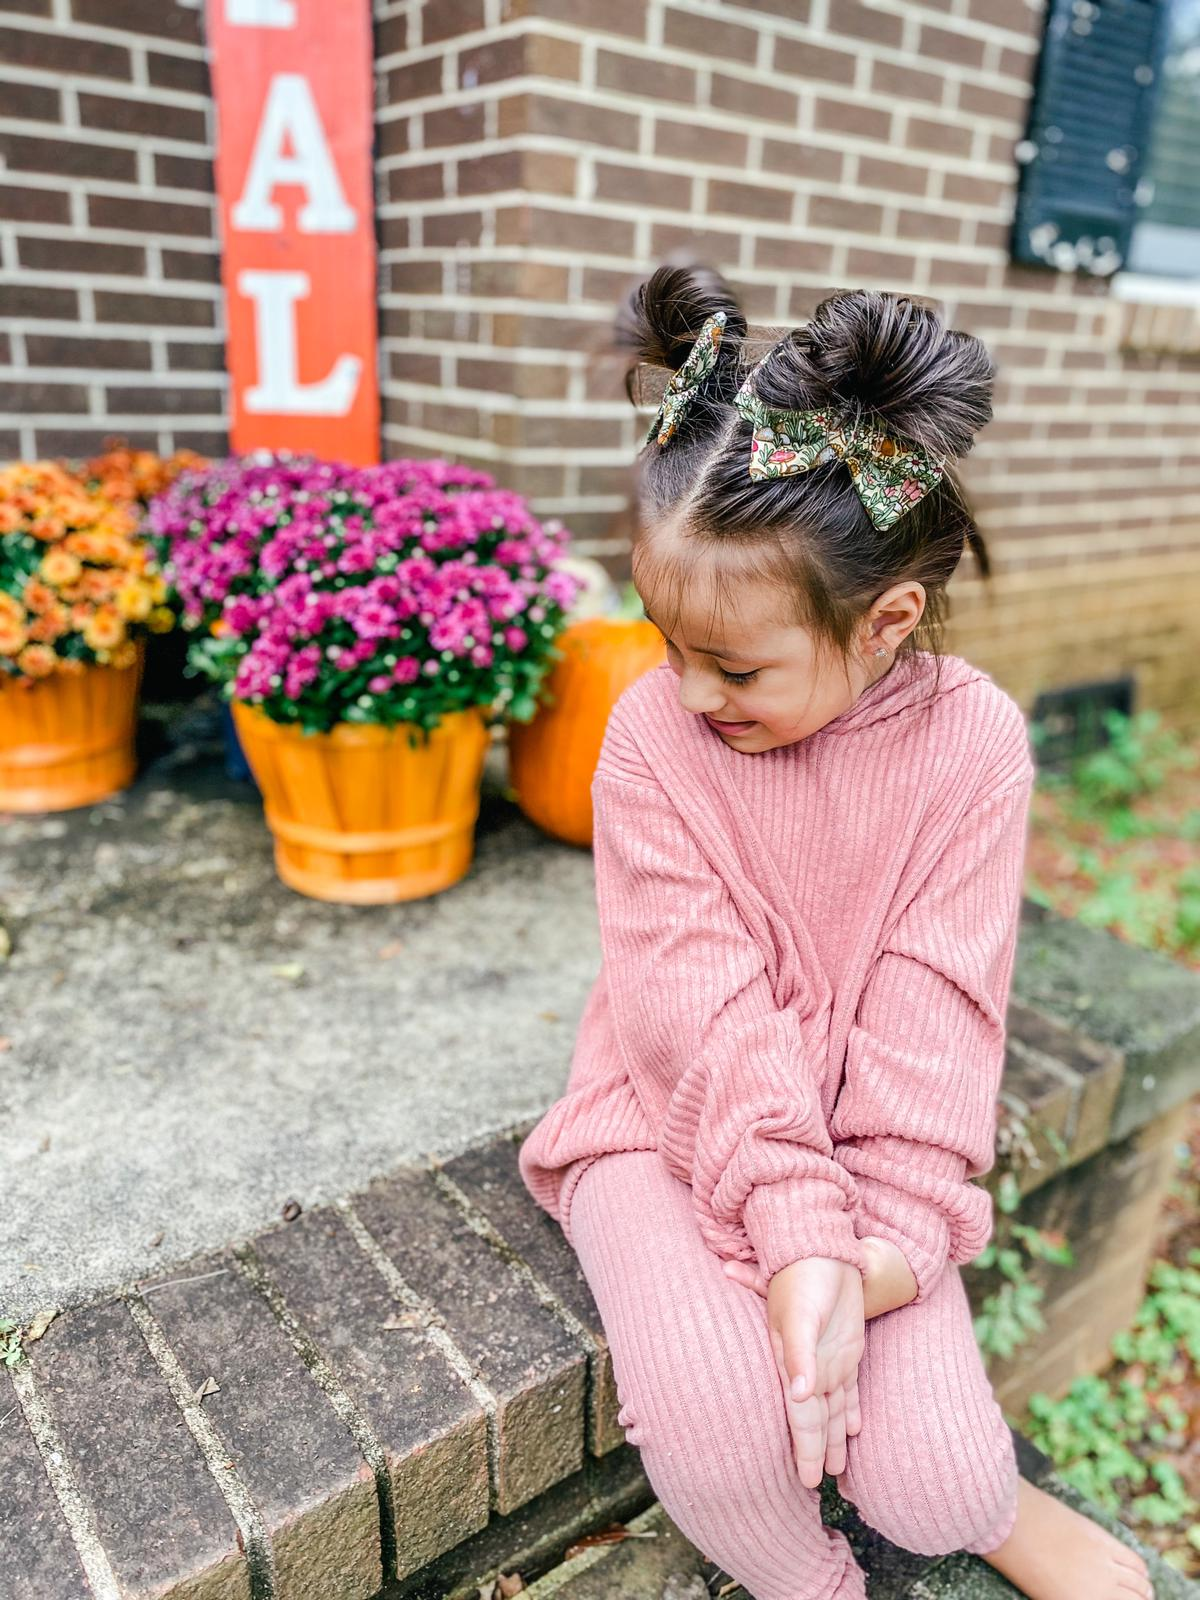
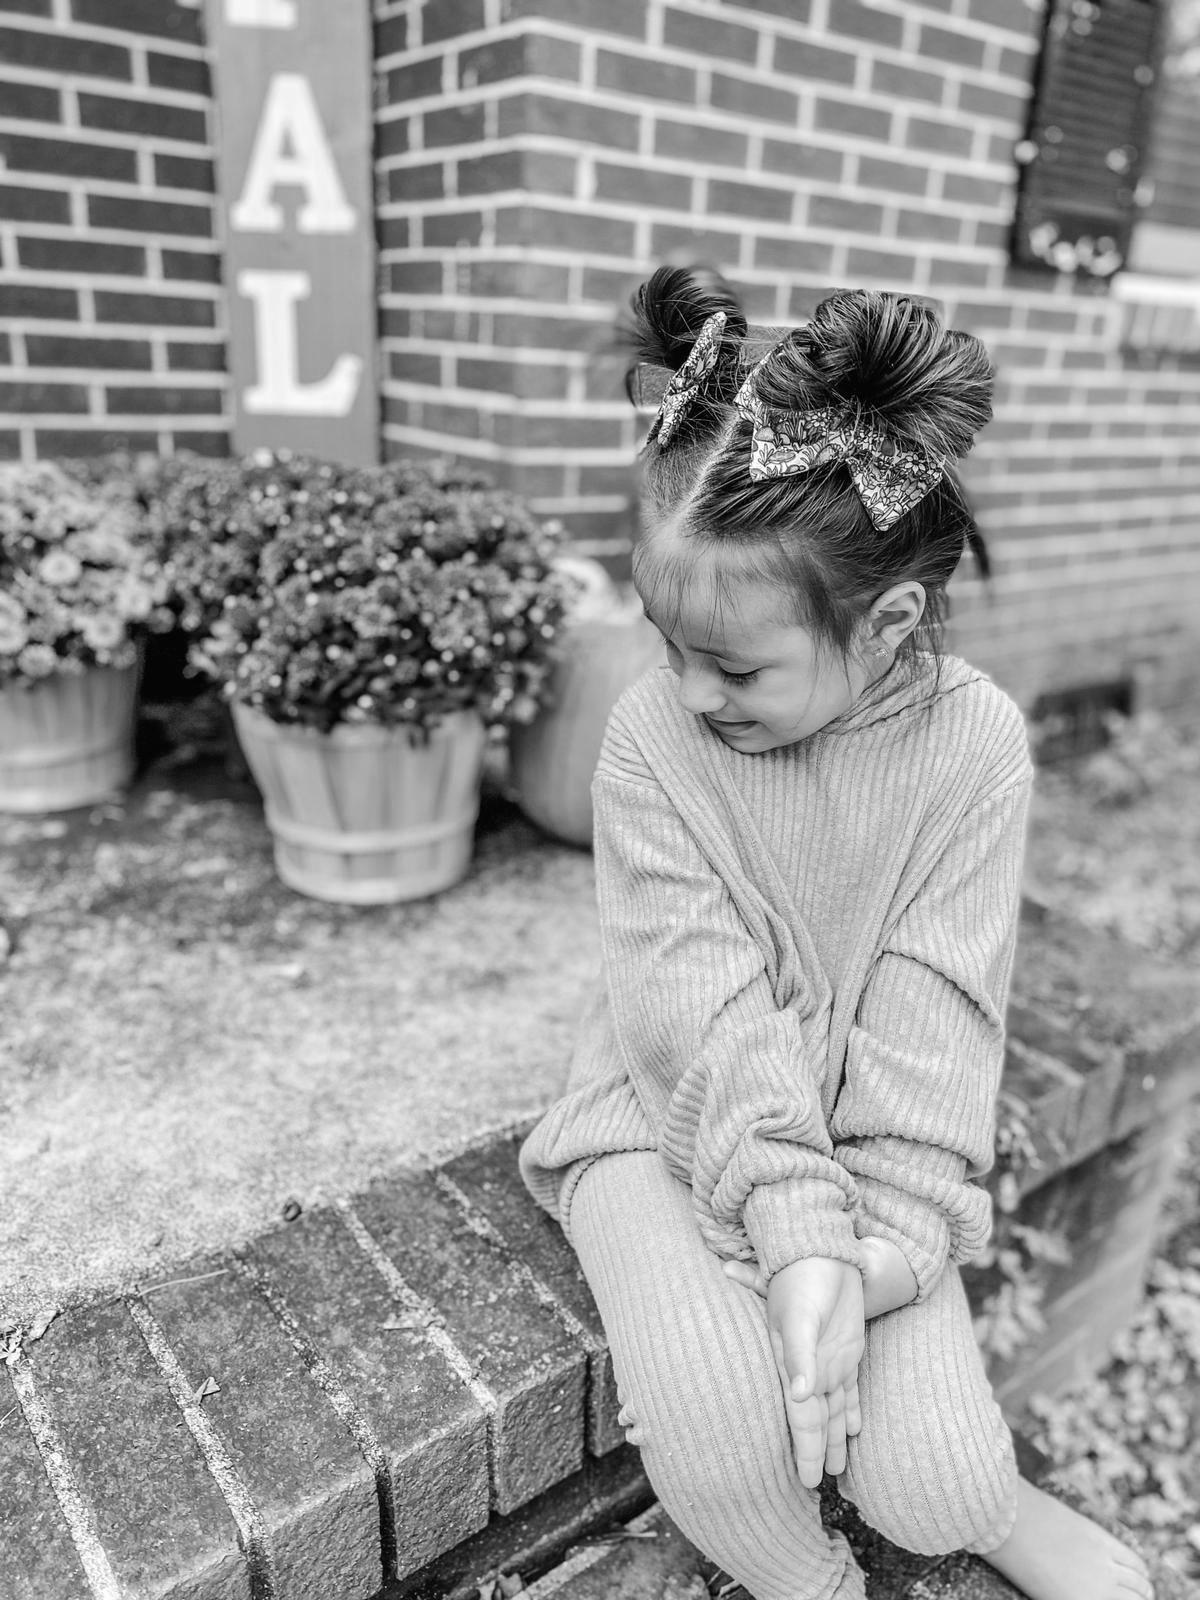
UseRef-Pics

diff --git a/elli_emi/src/ImgThumbnails.js b/elli_emi/src/ImgThumbnails.js
@@ -1,38 +1,31 @@
-import React  from 'react';
-import Floral from './img/Floral.jpeg';
-import Emi from './img/Emi.jpeg';
-import Floral2 from './img/Floral2.jpeg';
-import Floral3 from './img/Floral3.jpeg';
-import gold from './img/gold.jpeg';
-import october from './img/october.jpeg';
-import sister from './img/Sister.jpeg';
-import sunflower from './img/sunflower.jpeg';
-import rainbow from './img/Rainbow.jpeg';
-import september from './img/september.jpeg';
+import React from "react";
+import Floral from "./img/Floral.jpeg";
+import Emi from "./img/Emi.jpg";
+import Floral2 from "./img/Floral2.jpeg";
+import Floral3 from "./img/Floral3.jpeg";
+import gold from "./img/gold.jpeg";
+import october from "./img/october.jpeg";
+import Sisters from "./img/Sister copy.jpg";
+import sunflower from "./img/sunflower.jpeg";
+import rainbow from "./img/Rainbow.jpeg";
+import september from "./img/september.jpeg";
 // import Likes from './Likes';
 
-
-
-function Images()  {
-
-    
-        return (
-            <div>
-
-                <img  src={Floral} alt="" class="img-thumbnail  rounded float-left">
-                </img>
-                
-                <img src={Emi} alt="" class="img-thumbnail"></img>
-                <img src={Floral2} alt="" class="img-thumbnail"></img>
-                <img src={Floral3} alt="" class="img-thumbnail"></img>
-                <img src={gold} alt="" class="img-thumbnail"></img>
-                <img src={october} alt="" class="img-thumbnail"></img>
-                <img src={sister} alt="" class="img-thumbnail"></img>
-                <img src={sunflower} alt="" class="img-thumbnail"></img>
-                <img src={rainbow} alt="" class="img-thumbnail"></img>
-                <img src={september} alt="" class="img-thumbnail"></img>
-            </div>
-        );
+function Images() {
+  return (
+    <div className="Fall-collection">
+      <img src={Floral} alt="" class="img-thumbnail  rounded float-left"></img>
+      <img src={Emi} alt="" class="img-thumbnail"></img>
+      <img src={Floral2} alt="" class="img-thumbnail"></img>
+      <img src={Floral3} alt="" class="img-thumbnail"></img>
+      <img src={gold} alt="" class="img-thumbnail"></img>
+      <img src={october} alt="" class="img-thumbnail"></img>
+      <img src={Sisters} alt="" class="img-thumbnail"></img>
+      <img src={sunflower} alt="" class="img-thumbnail"></img>
+      <img src={rainbow} alt="" class="img-thumbnail"></img>
+      <img src={september} alt="" class="img-thumbnail"></img>
+    </div>
+  );
 }
 
 export default Images;

diff --git a/elli_emi/src/Nav.js b/elli_emi/src/Nav.js
@@ -3,25 +3,31 @@ import { Link } from "react-router-dom";
 import InputElement from "./input";
 // import { Navbar, NavDropdown, Form, FormControl, Button } from "react-bootstrap";
 
-
-
 class Nav extends Component {
   render() {
     const { isAuthenticated, login, logout } = this.props.auth;
     return (
       <nav className="navbar navbar-expand-lg navbar-light bg-light">
         <ul className="navbar-nav mr-auto  nav-ul">
-          <li className="nav-item" >
-            <Link className="navbar-brand" to="/">Ellie and Emi</Link>
+          <li className="nav-item">
+            <Link className="navbar-brand" to="/">
+              Ellie and Emi
+            </Link>
           </li>
           <li className="nav-item">
-            <Link className="nav-link" to="/bows">Bows </Link>
+            <Link className="nav-link" to="/bows">
+              Bows{" "}
+            </Link>
           </li>
           <li className="nav-item">
-            <Link className="nav-link" to="/public">Public</Link>
+            <Link className="nav-link" to="/public">
+              Public
+            </Link>
           </li>
           <li className="nav-item">
-            <Link className="nav-link" to="/profile">Profile</Link>
+            <Link className="nav-link" to="/profile">
+              Profile
+            </Link>
           </li>
 
           {isAuthenticated() && (
@@ -35,9 +41,8 @@ class Nav extends Component {
             </button>
             <InputElement />
           </li>
-          <pre>{(new Date).toLocaleTimeString()}</pre>
+          <pre>{new Date().toLocaleTimeString()}</pre>
         </ul>
-       
       </nav>
     );
   }

diff --git a/elli_emi/src/Home.js b/elli_emi/src/Home.js
@@ -1,33 +1,31 @@
-import React, { Component } from 'react';
-import { Link } from 'react-router-dom';
-import Jumbotron from './Jumbotron';
-import Images from './ImgThumbnails';
-import Likes from './Likes';
+import React, { Component } from "react";
+import { Link } from "react-router-dom";
+import Jumbotron from "./Jumbotron";
+import Images from "./ImgThumbnails";
+import Likes from "./Likes";
+import InputElement from "./input";
 
 class Home extends Component {
-    render() {
-        const { isAuthenticated, login } = this.props.auth;
-        return (
-            <div>
-                <h1 id= "home">Home</h1>
-                {isAuthenticated() ? (
-                    <Link to="/profile">View profile</Link>
-                ) : (
-                        <button onClick={login}>Log In</button>
-                    )}
-            
-                <br></br>
-                
-                <Jumbotron/>
-                <Likes/>
-                <Images/>
-               
-               
+  render() {
+    const { isAuthenticated, login } = this.props.auth;
+    return (
+      <div>
+        <h1 id="home">Home</h1>
+        {isAuthenticated() ? (
+          <Link to="/profile">View profile</Link>
+        ) : (
+          <button onClick={login}>Log In</button>
+        )}
 
+        <br></br>
 
-            </div>
-        );
-    }
+        <Jumbotron />
+        <Likes />
+        <InputElement />
+        <Images />
+      </div>
+    );
+  }
 }
 
 export default Home;

diff --git a/elli_emi/src/Likes.js b/elli_emi/src/Likes.js
@@ -1,36 +1,28 @@
-import React, { useState } from 'react';
+import React, { useState } from "react";
 
-function Display(props){
-    return (
-    <span> {props.likes}</span>
-    )
+function Display(props) {
+  return <span> {props.likes}</span>;
 }
 
-function Button (props){
-    return(
-        <button onClick={props.onClickFunction}>
-            ❤ 
-        </button>
-    )
+function Button(props) {
+  return (
+    <button onClick={props.onClickFunction}>
+      <span role="img"> ❤ </span>
+    </button>
+  );
 }
 
 function Likes() {
-    // counter the initial value of 0, setCounter is the new Change for counter
-    const [counter,setCounter] = useState(0);
-    const incrementCounter = ()=> setCounter(counter +1)
-    return (
-        <>
-        <span>
-        
-        <Button onClickFunction={incrementCounter}/>
-        </span>
-        <Display likes={counter}/>
-            
-        </>
-    )
+  // counter the initial value of 0, setCounter is the new Change for counter
+  const [counter, setCounter] = useState(0);
+  const incrementCounter = () => setCounter(counter + 1);
+  return (
+    <>
+      <span>
+        <Button onClickFunction={incrementCounter} />
+      </span>
+      <Display likes={counter} />
+    </>
+  );
 }
 export default Likes;
-
-
-
-    

diff --git a/elli_emi/src/pages/ImageChangeOnMouseOver.js b/elli_emi/src/pages/ImageChangeOnMouseOver.js
@@ -1,0 +1,31 @@
+import React from "react";
+import ImageToggleOnMouseOver from "../ImageTogglerOnMouseOver";
+import Emi from "../img/Emi.jpg";
+import EmiBlack from "../img/Emi.jpeg";
+import Sisters from "../img/Sister copy.jpg";
+import SisterBlack from "../img/Sister.jpeg";
+import PumkinBlack from "../img/pumpkin.jpeg";
+import Pumkin from "../img/pumpkin copy.jpg";
+
+import "../index.css";
+
+const ImageOnMouseOver = () => {
+  return (
+    <div id="bnwpics">
+      <ImageToggleOnMouseOver
+        primaryImg={Emi}
+        secondaryImg={EmiBlack}
+      ></ImageToggleOnMouseOver>
+      <ImageToggleOnMouseOver
+        primaryImg={Sisters}
+        secondaryImg={SisterBlack}
+      ></ImageToggleOnMouseOver>
+      <ImageToggleOnMouseOver
+        primaryImg={Pumkin}
+        secondaryImg={PumkinBlack}
+      ></ImageToggleOnMouseOver>
+    </div>
+  );
+};
+
+export default ImageOnMouseOver;

diff --git a/elli_emi/src/index.css b/elli_emi/src/index.css
@@ -94,11 +94,10 @@ nav button {
   border-color: #9d8189;
 }
 .footer {
-  min-height: 80px;
+  min-height: 60px;
   background: #f4acb7;
-  position: sticky;
+  position: relative;
   width: 100%;
-  margin-top: 10px;
   bottom: 0;
   left: 0;
   right: 0;
@@ -106,11 +105,27 @@ nav button {
 
 .footer span {
   position: relative;
+
   bottom: 0;
   left: 0;
   right: 0;
   padding: 3px;
   background: #f4acb7;
+}
+#bnwpics img {
+  width: 300px;
+  height: 450px;
+  margin: 10px;
+  border: 1px solid;
+  padding: 10px;
+  box-shadow: 5px 10px 20px #888888;
+}
+#bnwpics {
+  text-align: center;
+}
+.Fall-collection {
+  position: relative;
+  margin-bottom: 10px;
 }
 /* D8E2DC  light green*/
 /* ffe5d9 beige */

diff --git a/elli_emi/src/App.js b/elli_emi/src/App.js
@@ -8,8 +8,8 @@ import Callback from "./Callback";
 import Public from "./Public";
 import Private from "./Private";
 import Footer from "./Footer";
-import Bows from "./Bows";
 import PageNotFound from "./PageNotFound";
+import ImageOnMouseOver from "./pages/ImageChangeOnMouseOver";
 
 class App extends Component {
   constructor(props) {
@@ -42,7 +42,7 @@ class App extends Component {
               }
             />
             <Route path="/public" component={Public} />
-            <Route path="/bows" component={Bows} />
+            <Route path="/bows" component={ImageOnMouseOver} />
             <Route
               path="/private"
               render={(props) =>

diff --git a/elli_emi/src/input.js b/elli_emi/src/input.js
@@ -1,17 +1,19 @@
 import React, { useState } from "react";
 
+const InputElement = () => {
+  const [inputText, setInputText] = useState("");
 
-const InputElement =()=> {
-const [inputText,setInputText] = useState("");
-   
-    return (
+  return (
     <>
-    <input onChange={(e) => {setInputText(e.target.value)
-    }}
-    placeholder="finding bows type here...." />
+      <input
+        onChange={(e) => {
+          setInputText(e.target.value);
+        }}
+        placeholder="finding bows type here...."
+      />
 
-    {inputText}
-   </>
-    );
-}
+      {inputText}
+    </>
+  );
+};
 export default InputElement;

diff --git a/elli_emi/src/ImageTogglerOnMouseOver.js b/elli_emi/src/ImageTogglerOnMouseOver.js
@@ -1,0 +1,20 @@
+import React, { useRef } from "react";
+
+const ImageToggleOnMouseOver = ({ primaryImg, secondaryImg }) => {
+  const imageRef = useRef(null);
+  return (
+    <img
+      onMouseOver={() => {
+        imageRef.current.src = secondaryImg;
+      }}
+      onMouseOut={() => {
+        imageRef.current.src = primaryImg;
+      }}
+      src={primaryImg}
+      alt=""
+      ref={imageRef}
+    />
+  );
+};
+
+export default ImageToggleOnMouseOver;

diff --git a/elli_emi/src/Bows.js b/elli_emi/src/Bows.js
@@ -1,10 +1,14 @@
 import React from "react";
 import Images from "./ImgThumbnails";
+import ImageOnMouseOver from "./pages/ImageChangeOnMouseOver";
+import ImageToggleOnMouseOver from "./ImageTogglerOnMouseOver";
 
 function Bows() {
   return (
     <>
       <h1>Fall Collection</h1>
+      <ImageToggleOnMouseOver />
+      <ImageOnMouseOver />
       <Images />
     </>
   );

diff --git a/elli_emi/src/Jumbotron.js b/elli_emi/src/Jumbotron.js
@@ -4,7 +4,7 @@ import Main from "./img/Main.jpeg";
 function Jumbotron() {
   return (
     <div className="jumbotron">
-      <img id="main" src={Main} />
+      <img id="main" alt="main" src={Main} />
     </div>
   );
 }
